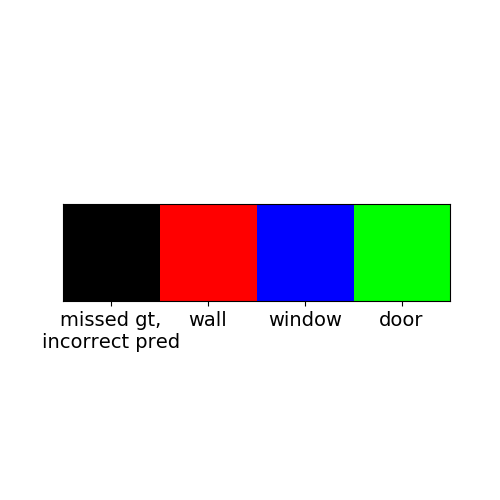
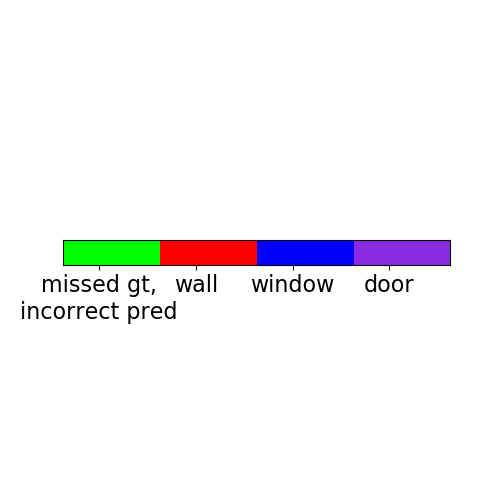
ju

Changed region(s): [[0.03, 0.39, 0.9, 0.72]]

diff --git a/data3d/suncg_utils/scene_samples.py b/data3d/suncg_utils/scene_samples.py
@@ -2,6 +2,8 @@ class SceneSamples():
     '''
     '''
     #---------------------------------------------------------------------------
+    geo_def = ['2a07667f31f99fc450eaecc8fbd8aa46']
+    #---------------------------------------------------------------------------
     paper_samples = ['0058113bdc8bee5f387bb5ad316d7b28']
     paper_samples_1  = ['00602d3d932a8d5305234360a9d1e0ad',  '0055398beb892233e0664d843eb451ca']
     paper_samples_2 = ['005f0859081006be329802f967623015', '007802a5b054a16a481a72bb3baca6a4','00922f91aa09dbdda3a74489ea0e21eb']
@@ -17,16 +19,19 @@ class SceneSamples():
     #---------------------------------------------------------------------------
     # samples between [4K, 5K]
     occlusion = ['1e5b5abaf37672f31a68c64c86721e69']
-    angle = ['1d51690abecf3d4d5fcb818a0721d23c', '1db62509ded045cbedfa7cd80fcfadba', '1deb63245dd9d06a5bbf1af2857049c4']
+    angle = ['1d51690abecf3d4d5fcb818a0721d23c', '1db62509ded045cbedfa7cd80fcfadba', '1deb63245dd9d06a5bbf1af2857049c4']+\
+          ['280d53b7678ee5d7d6ee1cada764d4a3', '292815803989642a171d23d0cd7e3a7b']
     complex_structures = ['1d84d7ca97f9e05534bf408779406e30', '1d938aa8a23c8507e035f5a7d4614180','1dba3a1039c6ec1a3c141a1cb0ad0757', '1e694c1e4862169a5f153c8719887bfc','1e717bef798945693244d7702bb65605']
     parallel_close_wall_very_small_angle = ['1d997f4d7ab8ff946279c3cc48b9ac95']
     parallel_close_wall = ['1e1803ee618089e619878995307e3d4d', '1e7a7945cd9ce60ce43f47cb72f72286']
     extent_wall_small_angle = ['1de7aee49963c9f1b658ed5b0178e266']
     wall_window_close = ['1da8a8bda13441351fd933480f0fc819', '1e7a7945cd9ce60ce43f47cb72f72286']
+    multi_windows_vertical = ['27e7978d19335c98323d377ce6688a5f', '284060d1077ae763243262612a831541', '28de6b671d96922c0059d4db81e00d5d']
 
     paper1_samples = occlusion + angle + complex_structures + parallel_close_wall_very_small_angle + parallel_close_wall + extent_wall_small_angle + wall_window_close
 
-    err_scenes += ['1da0456aa433300489e95a35f0f3cd9d', '1e3ed936ba615c69fe170e35cc1f6c41']
+    err_scenes += ['1da0456aa433300489e95a35f0f3cd9d', '1e3ed936ba615c69fe170e35cc1f6c41', '29249f38d5c95568795ab8713eea23b6', '2939fcd921cfe33bb657f87ad35a2d73', '29b884837db645baa306c2c7e7bd5106']+\
+      ['29eab295c257844236e84ab8c805459c', '29efc6b3741fc57c63737e8f9b68f494', '2a4229d4567b6775ebbf9610973fc443', '2ac2a614bb98e22efb504ea1bcb89fc1']
     #---------------------------------------------------------------------------
 
 
@@ -68,7 +73,8 @@ class SceneSamples():
 
     #---------------------------------------------------------------------------
 
-    bad_scenes_curved_walls = ['020179798688014a482f483e1a5debe5', '019853e4742f679151c34f2732c33c16', '1de4b3e04dc05c81ec9bf6a5ffe52252']
+    bad_scenes_curved_walls = ['020179798688014a482f483e1a5debe5', '019853e4742f679151c34f2732c33c16', '1de4b3e04dc05c81ec9bf6a5ffe52252']+\
+      ['27143c875575d97aa54cd686da3009f5']
 
     # bad samples: not used in the training (1) BIM definition ambiguous
     bad_scenes_BIM_ambiguous = ['004e36a61e574321adc8da7b48c331f2', '00466151039216eb333369aa60ea3efe', '008969b6e13d18db3abc9d954cebe6a5', '0165e8534588c269219c9aafa9d888da']

diff --git a/utils3d/color_list.py b/utils3d/color_list.py
@@ -3,11 +3,12 @@ import numpy as np
 IS_SHUFFLE = False
 
 COLOR_LIST = np.array( [
-[0,0,255],
-[255,0,0],
 [0,255,0],
-[0, 255, 255],
+[255,0,0],
+[0,0,255],
+[138,  43, 226],
 [255,127,80],
+[0, 255, 255],
 [127,255,212],
 [153,102,204],
 [127,255,0],
@@ -107,7 +108,7 @@ COLOR_LIST = np.tile(COLOR_LIST, [4,1]) / 255.0
 
 import matplotlib.pyplot as plt
 from skimage import io
-plt.rcParams.update({'font.size': 14, 'figure.figsize': (5,5)})
+plt.rcParams.update({'font.size': 16, 'figure.figsize': (5,5)})
 
 def show_all():
   print(COLOR_LIST)
@@ -117,7 +118,7 @@ def show_all():
   for i in range(0,n, 5):
     e = min(i+10, n)
     print(f'{i}:{e}')
-    print(COLOR_LIST_[:,i:e])
+    print(COLOR_LIST_[:,i:e]*255)
     im = plt.imshow( COLOR_LIST_[:,i:e,:], interpolation='none', aspect='auto')
     plt.colorbar(im, orientation='horizontal')
     plt.show()
@@ -125,10 +126,13 @@ def show_all():
 
 def show_class_colors(classes):
   n = len(classes)
-  colors = COLOR_LIST[0:n].reshape([1,-1,3])
+  colors = COLOR_LIST[0:n]
+  k = 4
+  indices = (np.arange(k*n)/k).astype(np.int)
+  colors = colors[indices, :].reshape([1,-1,3])
   fig, ax = plt.subplots()
   im = ax.imshow(colors)
-  ax.set_xticks(np.arange(n))
+  ax.set_xticks(np.arange(n)*k+int(k*0.5)-1)
   ax.set_xticklabels(classes)
   ax.set_yticks([])
   plt.show()

diff --git a/data3d/render_tools.py b/data3d/render_tools.py
@@ -242,11 +242,11 @@ def render_houses(r_cam=True, r_whole=True, r_splited=True):
 
   house_names.sort()
 
-  house_names = house_names[4051+109:]
+  house_names = house_names[700:]
 
   #house_names = SceneSamples.very_hard_wall_window_close
-  house_names = SceneSamples.paper1_samples
-  #house_names = ['1da8a8bda13441351fd933480f0fc819']
+  #house_names = SceneSamples.paper1_samples
+  #house_names = ['1d51690abecf3d4d5fcb818a0721d23c']
 
   print(f'totally {len(house_names)} houses')
 
@@ -279,8 +279,8 @@ def render_fn():
 def main():
     render_houses(
             r_cam=False,
-            r_whole = 0,
-            r_splited = 1
+            r_whole = 1,
+            r_splited = 0
     )
 
 def summarize():
@@ -349,8 +349,8 @@ def summarize():
 
 if __name__ == '__main__':
     #render_fn()
-    #main()
-    summarize()
+    main()
+    #summarize()
 
 
 

diff --git a/data3d/evaluation/suncg/suncg_eval.py b/data3d/evaluation/suncg/suncg_eval.py
@@ -106,7 +106,7 @@ def do_suncg_evaluation(dataset, predictions, iou_thresh_eval, output_folder, lo
             print(f'xyz_size:{xyz_size}')
 
             #preds.show__together(gt_boxlists_[i], points=None, offset_x=xyz_size[0]+0.3, twolabels=False)
-            preds.show__together(gt_boxlists_[i], points=pcl_i, offset_x=xyz_size[0]+0.3, twolabels=False, mesh=False, points_keep_rate=0.5, points_sample_rate=0.2)
+            preds.show__together(gt_boxlists_[i], points=pcl_i, offset_x=xyz_size[0]+2.2, twolabels=False, mesh=False, points_keep_rate=0.7, points_sample_rate=0.3)
             #preds.show_together(gt_boxlists_[i], points=pcl_i, offset_x=0, twolabels=True)
 
 

diff --git a/maskrcnn_benchmark/engine/inference_3d.py b/maskrcnn_benchmark/engine/inference_3d.py
@@ -81,7 +81,7 @@ def inference_3d(
         iou_thresh_eval = 0.5,
         output_folder=None,
         epoch = None,
-        load_pred = False,
+        load_pred = 0,
 ):
     # convert to a torch.device for efficiency
     device = torch.device(device)
@@ -100,7 +100,9 @@ def inference_3d(
       if predictions_load is None:
         load_pred = False
 
-    if not load_pred:
+    if load_pred:
+      predictions = predictions_load
+    else:
       predictions = compute_on_dataset(model, data_loader, device)
       # wait for all processes to complete before measuring the time
       synchronize()
